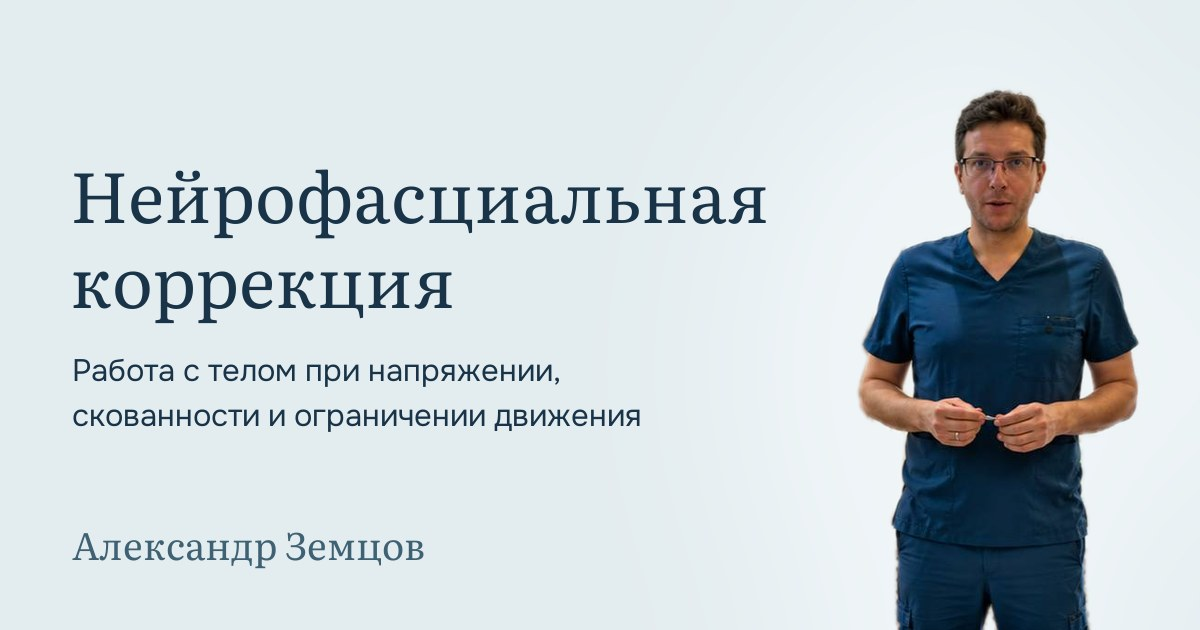
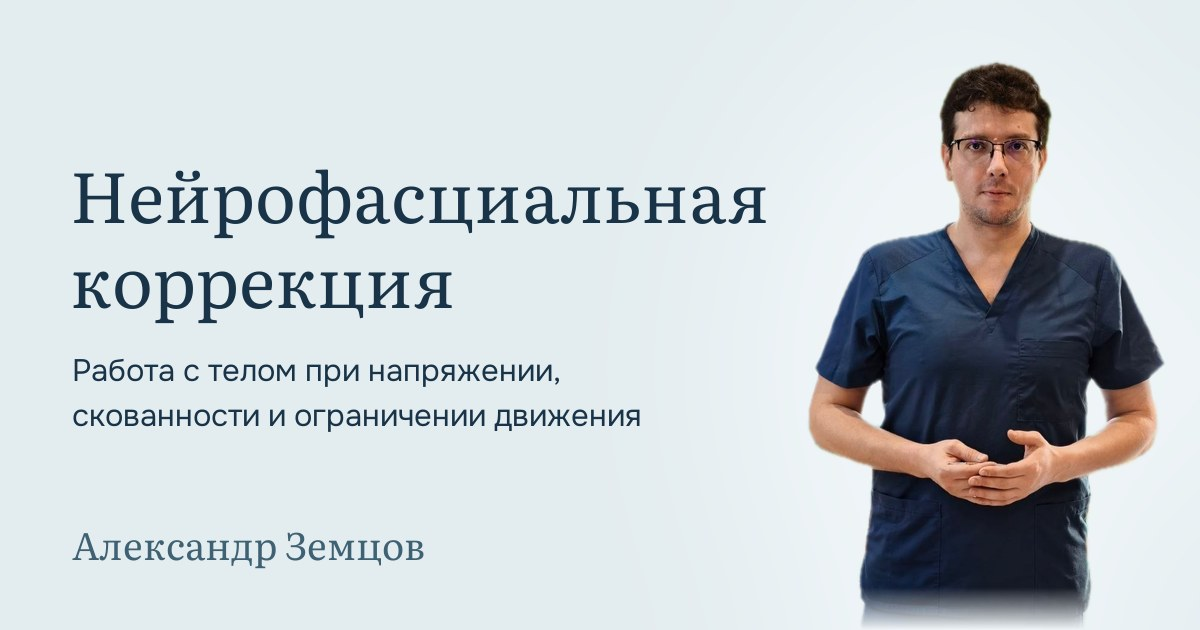
Фото Александра: новая вырезка из исходного снимка высокого качества, обновлена картинка превью

Changed region(s): [[0.6475, 0.0905, 0.9867, 1.0]]

diff --git a/index.html b/index.html
@@ -1,4 +1,4 @@
-<!doctype html><html lang="ru"><head><meta charset="utf-8"><meta name="viewport" content="width=device-width,initial-scale=1"><title>НФК - Александр Земцов</title><meta name="description" content="Личная практика Александра Земцова: аудио о нейрофасциальной коррекции, этапы приёма и запись в разных городах"><link rel="icon" href="favicon.ico" sizes="any"><link rel="icon" type="image/png" sizes="32x32" href="assets/favicon-32.png"><link rel="icon" type="image/png" sizes="192x192" href="assets/icon-192.png"><link rel="apple-touch-icon" href="assets/apple-touch-icon.png"><link rel="canonical" href="https://nfc.metod-zemtsova.ru/"><meta name="theme-color" content="#e3ecef"><meta property="og:type" content="website"><meta property="og:locale" content="ru_RU"><meta property="og:site_name" content="Александр Земцов"><meta property="og:url" content="https://nfc.metod-zemtsova.ru/"><meta property="og:title" content="Нейрофасциальная коррекция - Александр Земцов"><meta property="og:description" content="Работа с телом при напряжении, скованности и ограничении движения. Послушайте рассказ Александра, узнайте, как проходит приём, и запишитесь в своём городе"><meta property="og:image" content="https://nfc.metod-zemtsova.com/assets/og-image.jpg"><meta property="og:image:width" content="1200"><meta property="og:image:height" content="630"><meta property="og:image:alt" content="Александр Земцов, нейрофасциальная коррекция"><meta name="twitter:card" content="summary_large_image"><meta name="twitter:title" content="Нейрофасциальная коррекция - Александр Земцов"><meta name="twitter:description" content="Работа с телом при напряжении, скованности и ограничении движения"><meta name="twitter:image" content="https://nfc.metod-zemtsova.com/assets/og-image.jpg"><link rel="stylesheet" href="premium.css"></head><body><header id="top"><a class="brand" href="#top"><span>Александр Земцов</span></a><nav><a href="#nfk">О методе</a><a href="#visit">Как проходит приём</a><a href="#master">О мастере</a><a href="prices.html">Цены</a></nav><a class="top-book" href="#booking">Записаться на приём ↗</a></header><main><section class="hero" aria-labelledby="hero-heading"><figure class="hero-photo"><img src="assets/photo/aleksandr-cutout.webp" width="350" height="605" fetchpriority="high" alt="Александр Земцов"></figure><div class="hero-content"><h1 id="hero-heading"><span>Нейрофасциальная</span> <span>коррекция</span></h1><p class="intro">Работа с телом при напряжении,<br class="desktop-break"> скованности и ограничении движения</p><div class="hero-action-area"><div><p class="details">Без резких скруток и хрустов</p><div class="hero-event" id="hero-event"><p class="he-when"><i aria-hidden="true"></i>1 ноября, 13:00 МСК</p><p class="he-title">Закрытая встреча в Zoom</p><a href="https://us06web.zoom.us/meeting/register/Z9fgkaeURb6foX1uni2EGg" target="_blank" rel="noopener">Регистрация <span aria-hidden="true">↗</span></a></div><script>(function(){var b=document.getElementById("hero-event");if(b&&Date.now()>Date.UTC(2026,10,1,10,15))b.hidden=true})()</script></div><div class="hero-action-art"><div class="process-art art-probe" role="img" aria-label="Схематическое изображение точечной работы тонким щупом"></div></div></div></div></section>
+<!doctype html><html lang="ru"><head><meta charset="utf-8"><meta name="viewport" content="width=device-width,initial-scale=1"><title>НФК - Александр Земцов</title><meta name="description" content="Личная практика Александра Земцова: аудио о нейрофасциальной коррекции, этапы приёма и запись в разных городах"><link rel="icon" href="favicon.ico" sizes="any"><link rel="icon" type="image/png" sizes="32x32" href="assets/favicon-32.png"><link rel="icon" type="image/png" sizes="192x192" href="assets/icon-192.png"><link rel="apple-touch-icon" href="assets/apple-touch-icon.png"><link rel="canonical" href="https://nfc.metod-zemtsova.ru/"><meta name="theme-color" content="#e3ecef"><meta property="og:type" content="website"><meta property="og:locale" content="ru_RU"><meta property="og:site_name" content="Александр Земцов"><meta property="og:url" content="https://nfc.metod-zemtsova.ru/"><meta property="og:title" content="Нейрофасциальная коррекция - Александр Земцов"><meta property="og:description" content="Работа с телом при напряжении, скованности и ограничении движения. Послушайте рассказ Александра, узнайте, как проходит приём, и запишитесь в своём городе"><meta property="og:image" content="https://nfc.metod-zemtsova.com/assets/og-image.jpg"><meta property="og:image:width" content="1200"><meta property="og:image:height" content="630"><meta property="og:image:alt" content="Александр Земцов, нейрофасциальная коррекция"><meta name="twitter:card" content="summary_large_image"><meta name="twitter:title" content="Нейрофасциальная коррекция - Александр Земцов"><meta name="twitter:description" content="Работа с телом при напряжении, скованности и ограничении движения"><meta name="twitter:image" content="https://nfc.metod-zemtsova.com/assets/og-image.jpg"><link rel="stylesheet" href="premium.css"></head><body><header id="top"><a class="brand" href="#top"><span>Александр Земцов</span></a><nav><a href="#nfk">О методе</a><a href="#visit">Как проходит приём</a><a href="#master">О мастере</a><a href="prices.html">Цены</a></nav><a class="top-book" href="#booking">Записаться на приём ↗</a></header><main><section class="hero" aria-labelledby="hero-heading"><figure class="hero-photo"><img src="assets/photo/aleksandr-cutout-2.webp" width="660" height="970" fetchpriority="high" alt="Александр Земцов"></figure><div class="hero-content"><h1 id="hero-heading"><span>Нейрофасциальная</span> <span>коррекция</span></h1><p class="intro">Работа с телом при напряжении,<br class="desktop-break"> скованности и ограничении движения</p><div class="hero-action-area"><div><p class="details">Без резких скруток и хрустов</p><div class="hero-event" id="hero-event"><p class="he-when"><i aria-hidden="true"></i>1 ноября, 13:00 МСК</p><p class="he-title">Закрытая встреча в Zoom</p><a href="https://us06web.zoom.us/meeting/register/Z9fgkaeURb6foX1uni2EGg" target="_blank" rel="noopener">Регистрация <span aria-hidden="true">↗</span></a></div><script>(function(){var b=document.getElementById("hero-event");if(b&&Date.now()>Date.UTC(2026,10,1,10,15))b.hidden=true})()</script></div><div class="hero-action-art"><div class="process-art art-probe" role="img" aria-label="Схематическое изображение точечной работы тонким щупом"></div></div></div></div></section>
 
 <section class="audio" id="audio"><button type="button" class="play" aria-label="Слушать аудио" id="play">▶</button><div><h2 class="audio-title">Сначала послушайте мой рассказ</h2><p class="audio-desc">Александр о своём подходе · 9 минут 57 секунд</p><div class="audio-row"><span id="current">0:00</span><input id="seek" aria-label="Позиция аудио" type="range" min="0" max="597" value="0"><span>9:57</span></div></div><p class="audio-status" id="audio-status" role="status" hidden></p><audio id="recording" preload="none" src="assets/audio/alexandr-nfk.mp3"></audio></section>
 <div class="prices-strip"><a href="prices.html"><span>Цены на приём</span><small>Россия · Беларусь · Европа</small><b aria-hidden="true">↗</b></a></div><section class="nfk-section" id="nfk" aria-label="О подходе">
